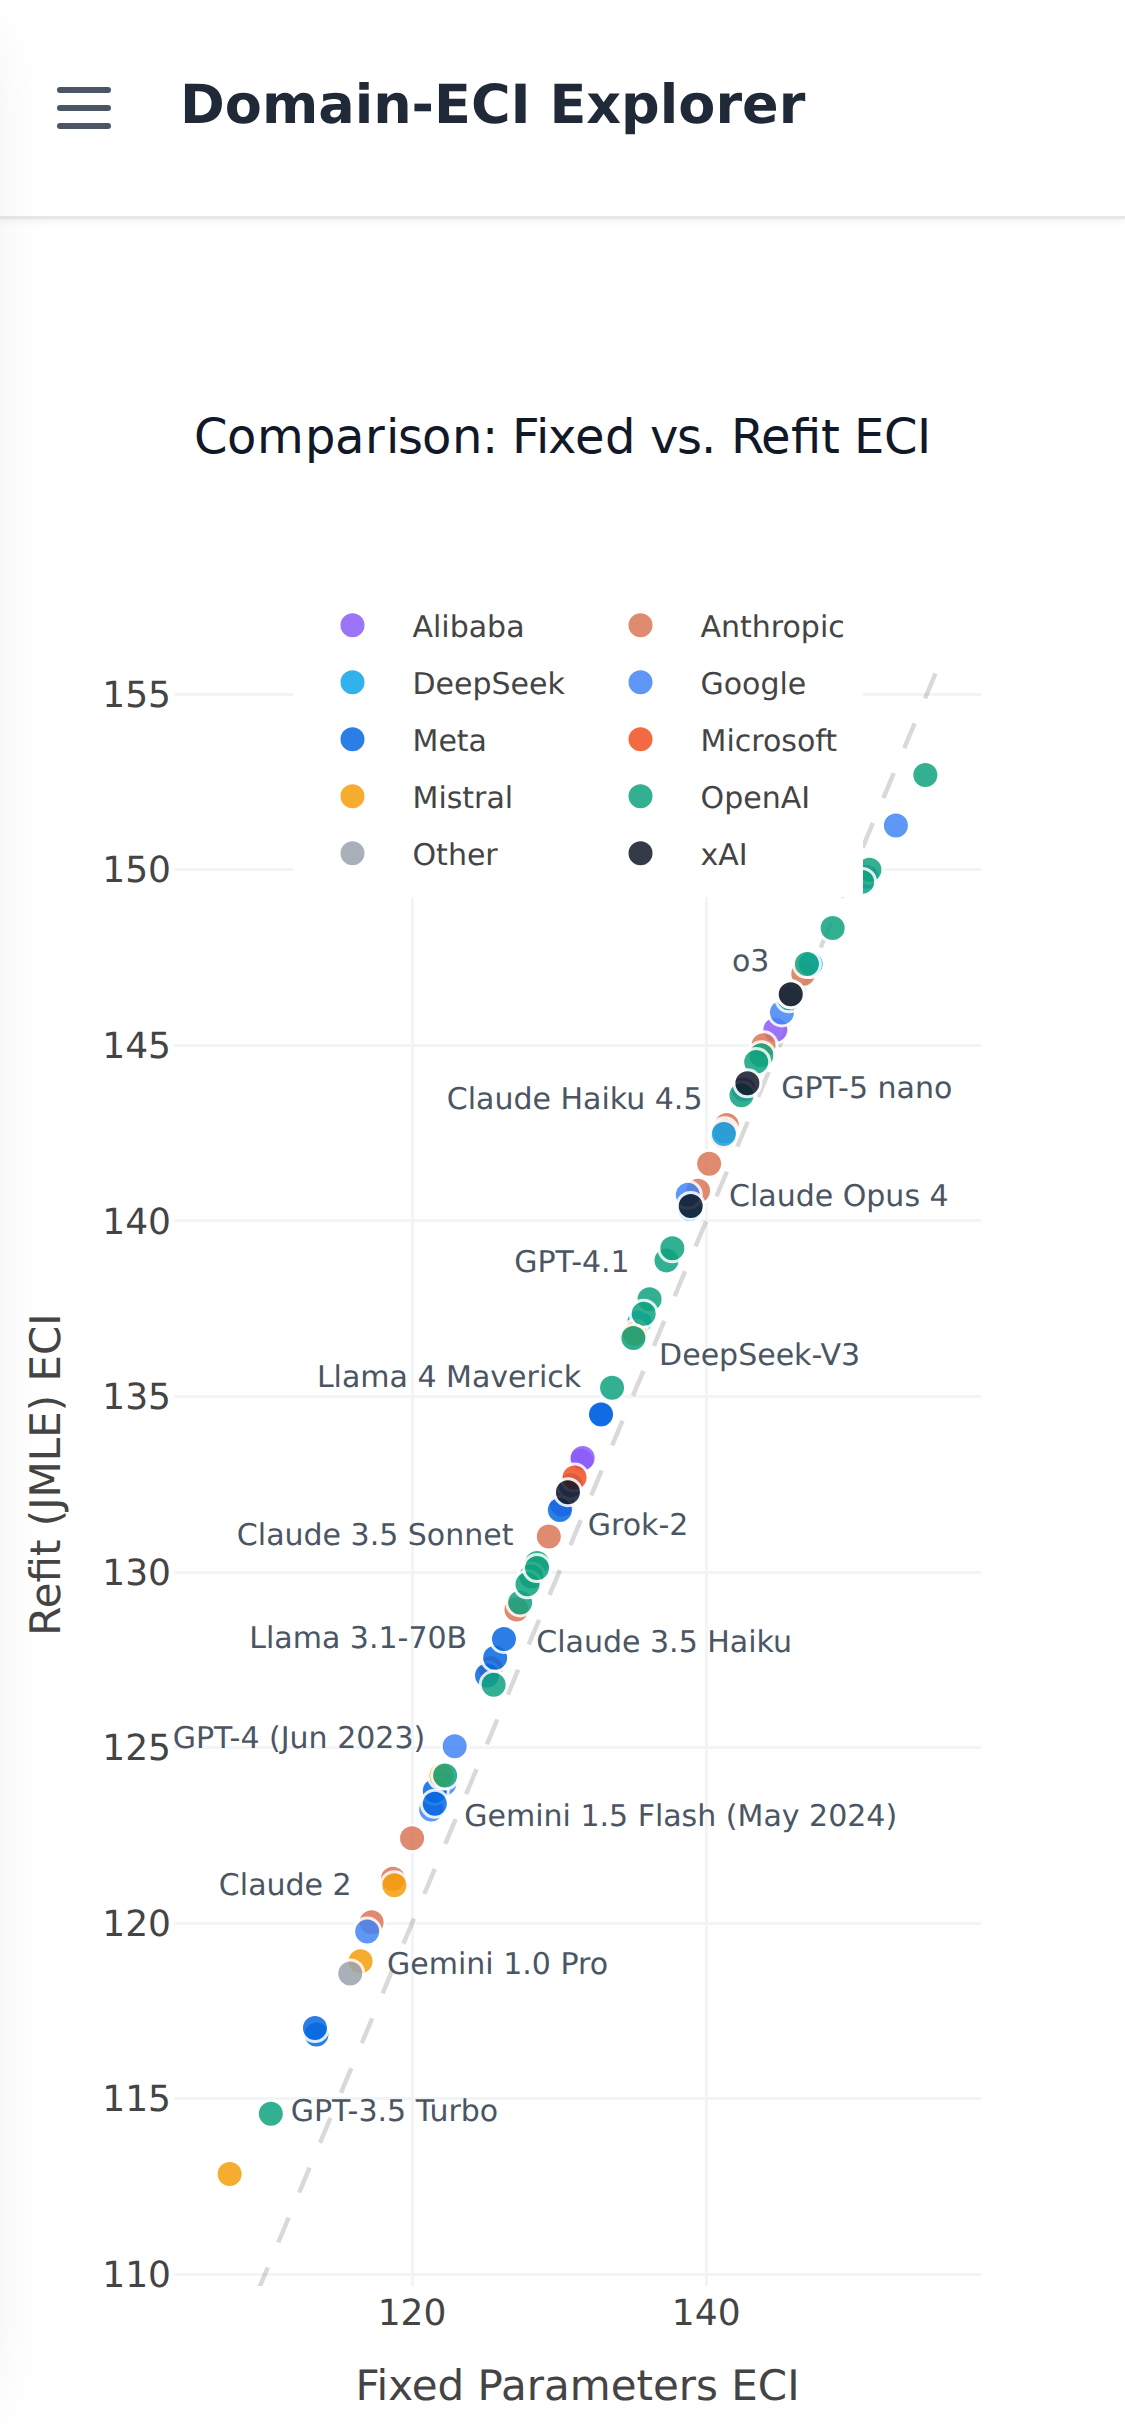
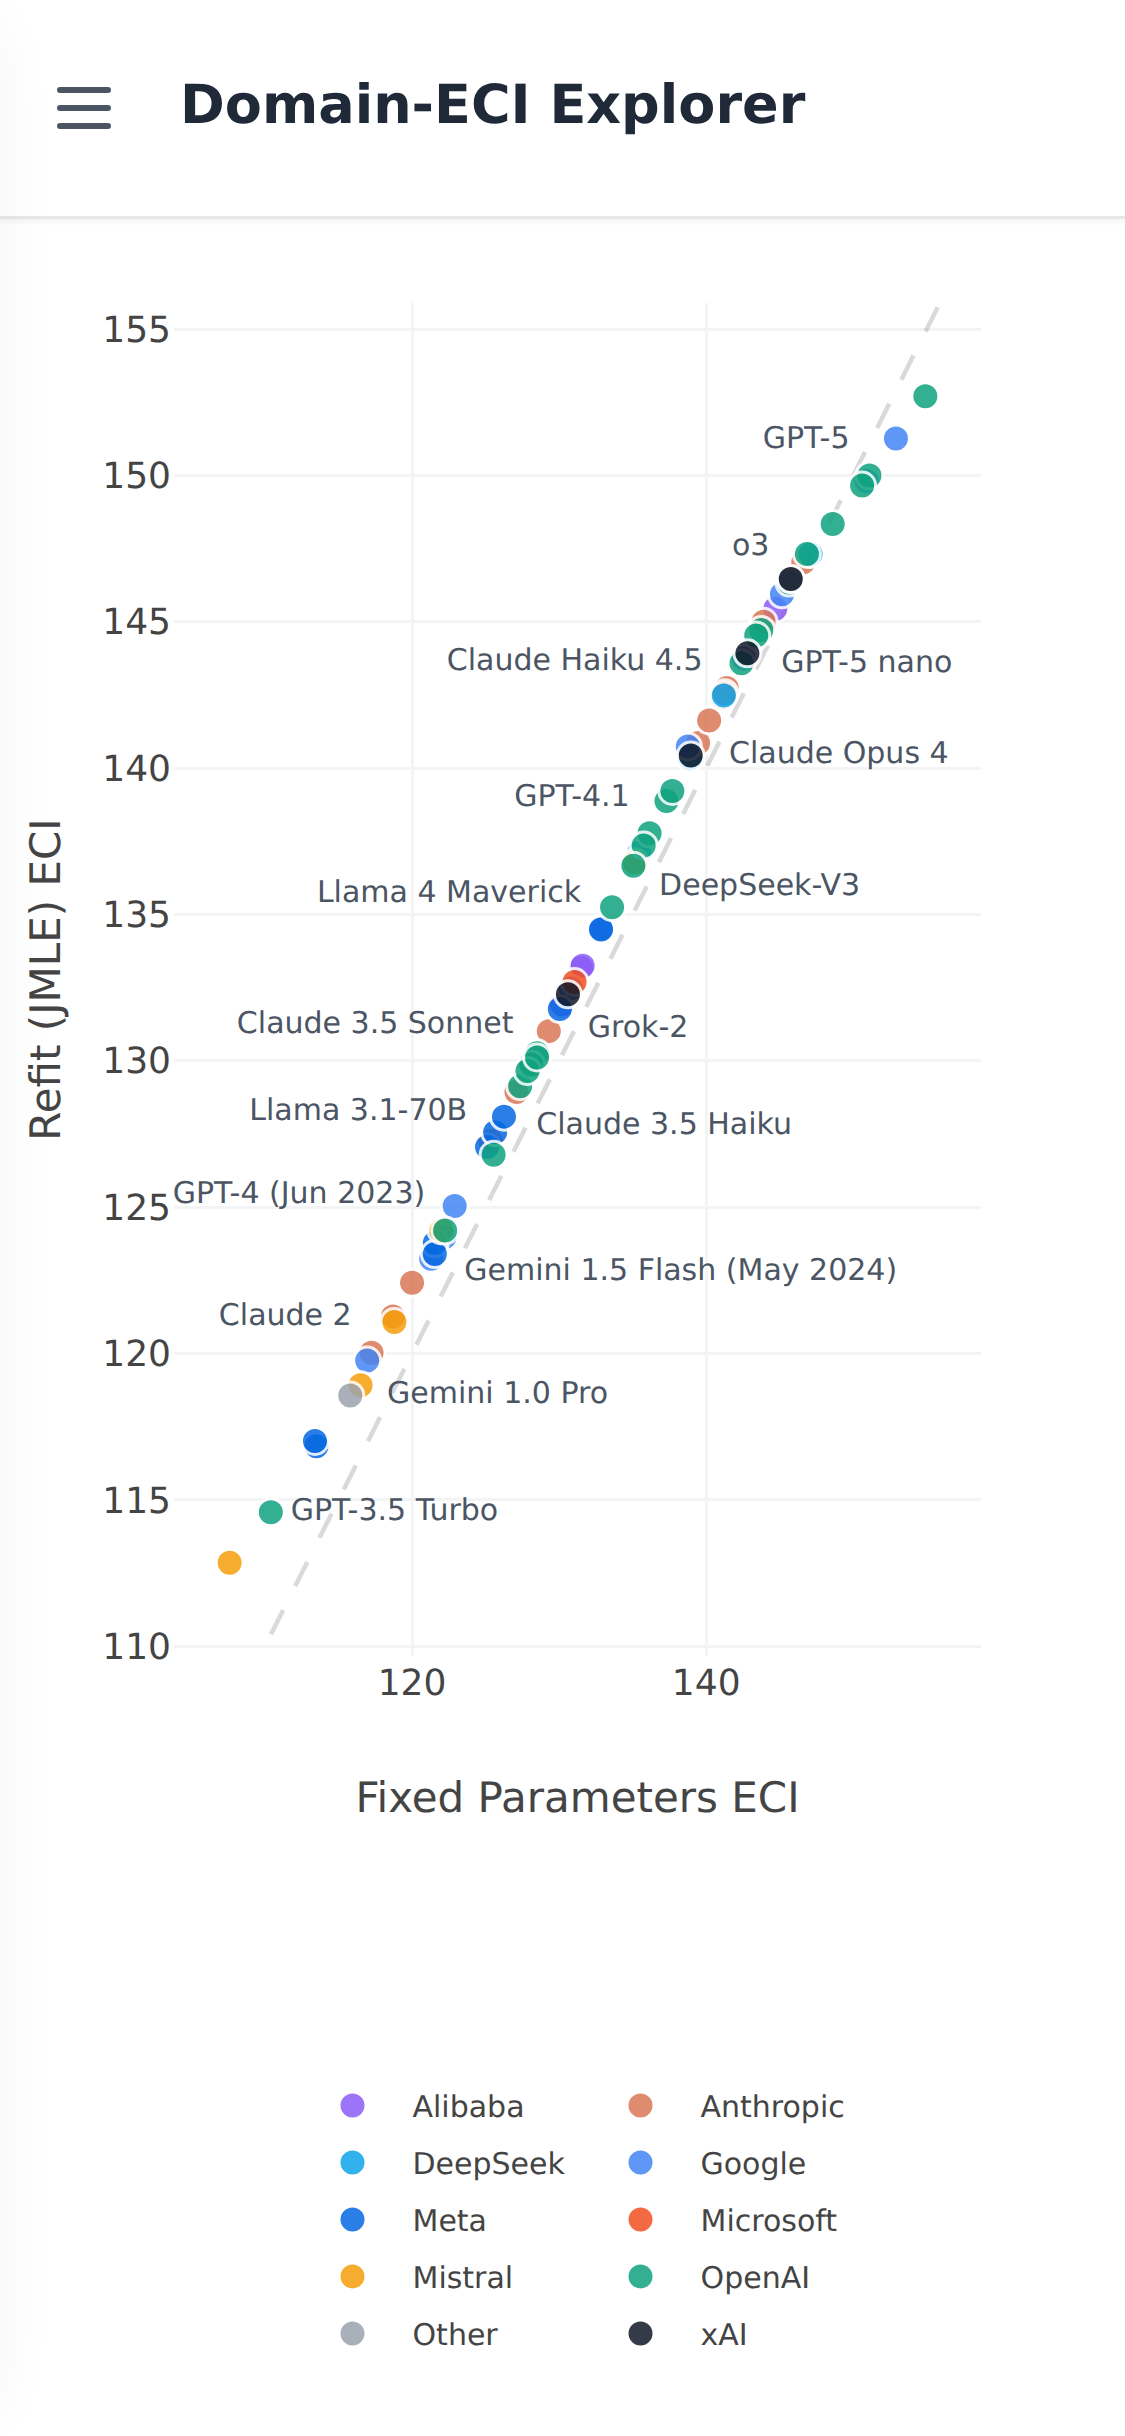
Fix Domain ECI mobile layout: Hide chart title, adjust margins, and position legend
- Hide Plotly chart title on mobile devices to prevent overlap with top bar/legend.
- Move chart legend to the bottom on mobile (y: -0.3) with increased bottom margin (120px) to prevent overlap with chart or data box.
- Reduce top margin on mobile (20px) to reclaim space.
- Address PR comments regarding visual clutter on small screens.

diff --git a/domain_eci.html b/domain_eci.html
@@ -1244,17 +1244,17 @@
                 const isMobile = window.innerWidth < 1024;
                 let layout = {
                     title: {
-                        text: 'Model Capability (ECI) over Time',
-                        font: { family: 'Inter', size: isMobile ? 16 : 22, weight: 900, color: '#111827' }
+                        text: isMobile ? undefined : 'Model Capability (ECI) over Time',
+                        font: { family: 'Inter', size: 22, weight: 900, color: '#111827' }
                     },
                     xaxis: { title: { text: 'Release Date', font: { weight: 600 } }, gridcolor: '#f3f4f6', zeroline: false, automargin: true },
                     yaxis: { title: { text: 'Domain-specific ECI', font: { weight: 600 } }, gridcolor: '#f3f4f6', zeroline: false, automargin: true },
                     hovermode: 'closest',
                     template: 'plotly_white',
-                    margin: isMobile ? { t: 140, r: 40, l: 40, b: 40 } : { t: 90, r: 50, l: 80, b: 100 },
+                    margin: isMobile ? { t: 20, r: 40, l: 40, b: 120 } : { t: 90, r: 50, l: 80, b: 100 },
                     legend: {
                         orientation: 'h',
-                        y: isMobile ? 1.05 : -0.15,
+                        y: isMobile ? -0.3 : -0.15,
                         x: 0.5,
                         xanchor: 'center',
                         font: { size: isMobile ? 10 : 13, weight: 500 }
@@ -1565,11 +1565,11 @@
                     });
 
                     if (state.mode === 'rank-compare') {
-                        layout.title.text = 'Comparison: Fixed vs. Refit Ranks';
+                        if (!isMobile) layout.title.text = 'Comparison: Fixed vs. Refit Ranks';
                         layout.xaxis.title.text = 'Fixed Parameters Rank (1=Best)';
                         layout.yaxis.title.text = 'Refit (JMLE) Rank (1=Best)';
                     } else {
-                        layout.title.text = 'Comparison: Fixed vs. Refit ECI';
+                        if (!isMobile) layout.title.text = 'Comparison: Fixed vs. Refit ECI';
                         layout.xaxis.title.text = 'Fixed Parameters ECI';
                         layout.yaxis.title.text = 'Refit (JMLE) ECI';
                         status.innerText = `Comparing ${rawPoints.length} models.`;
